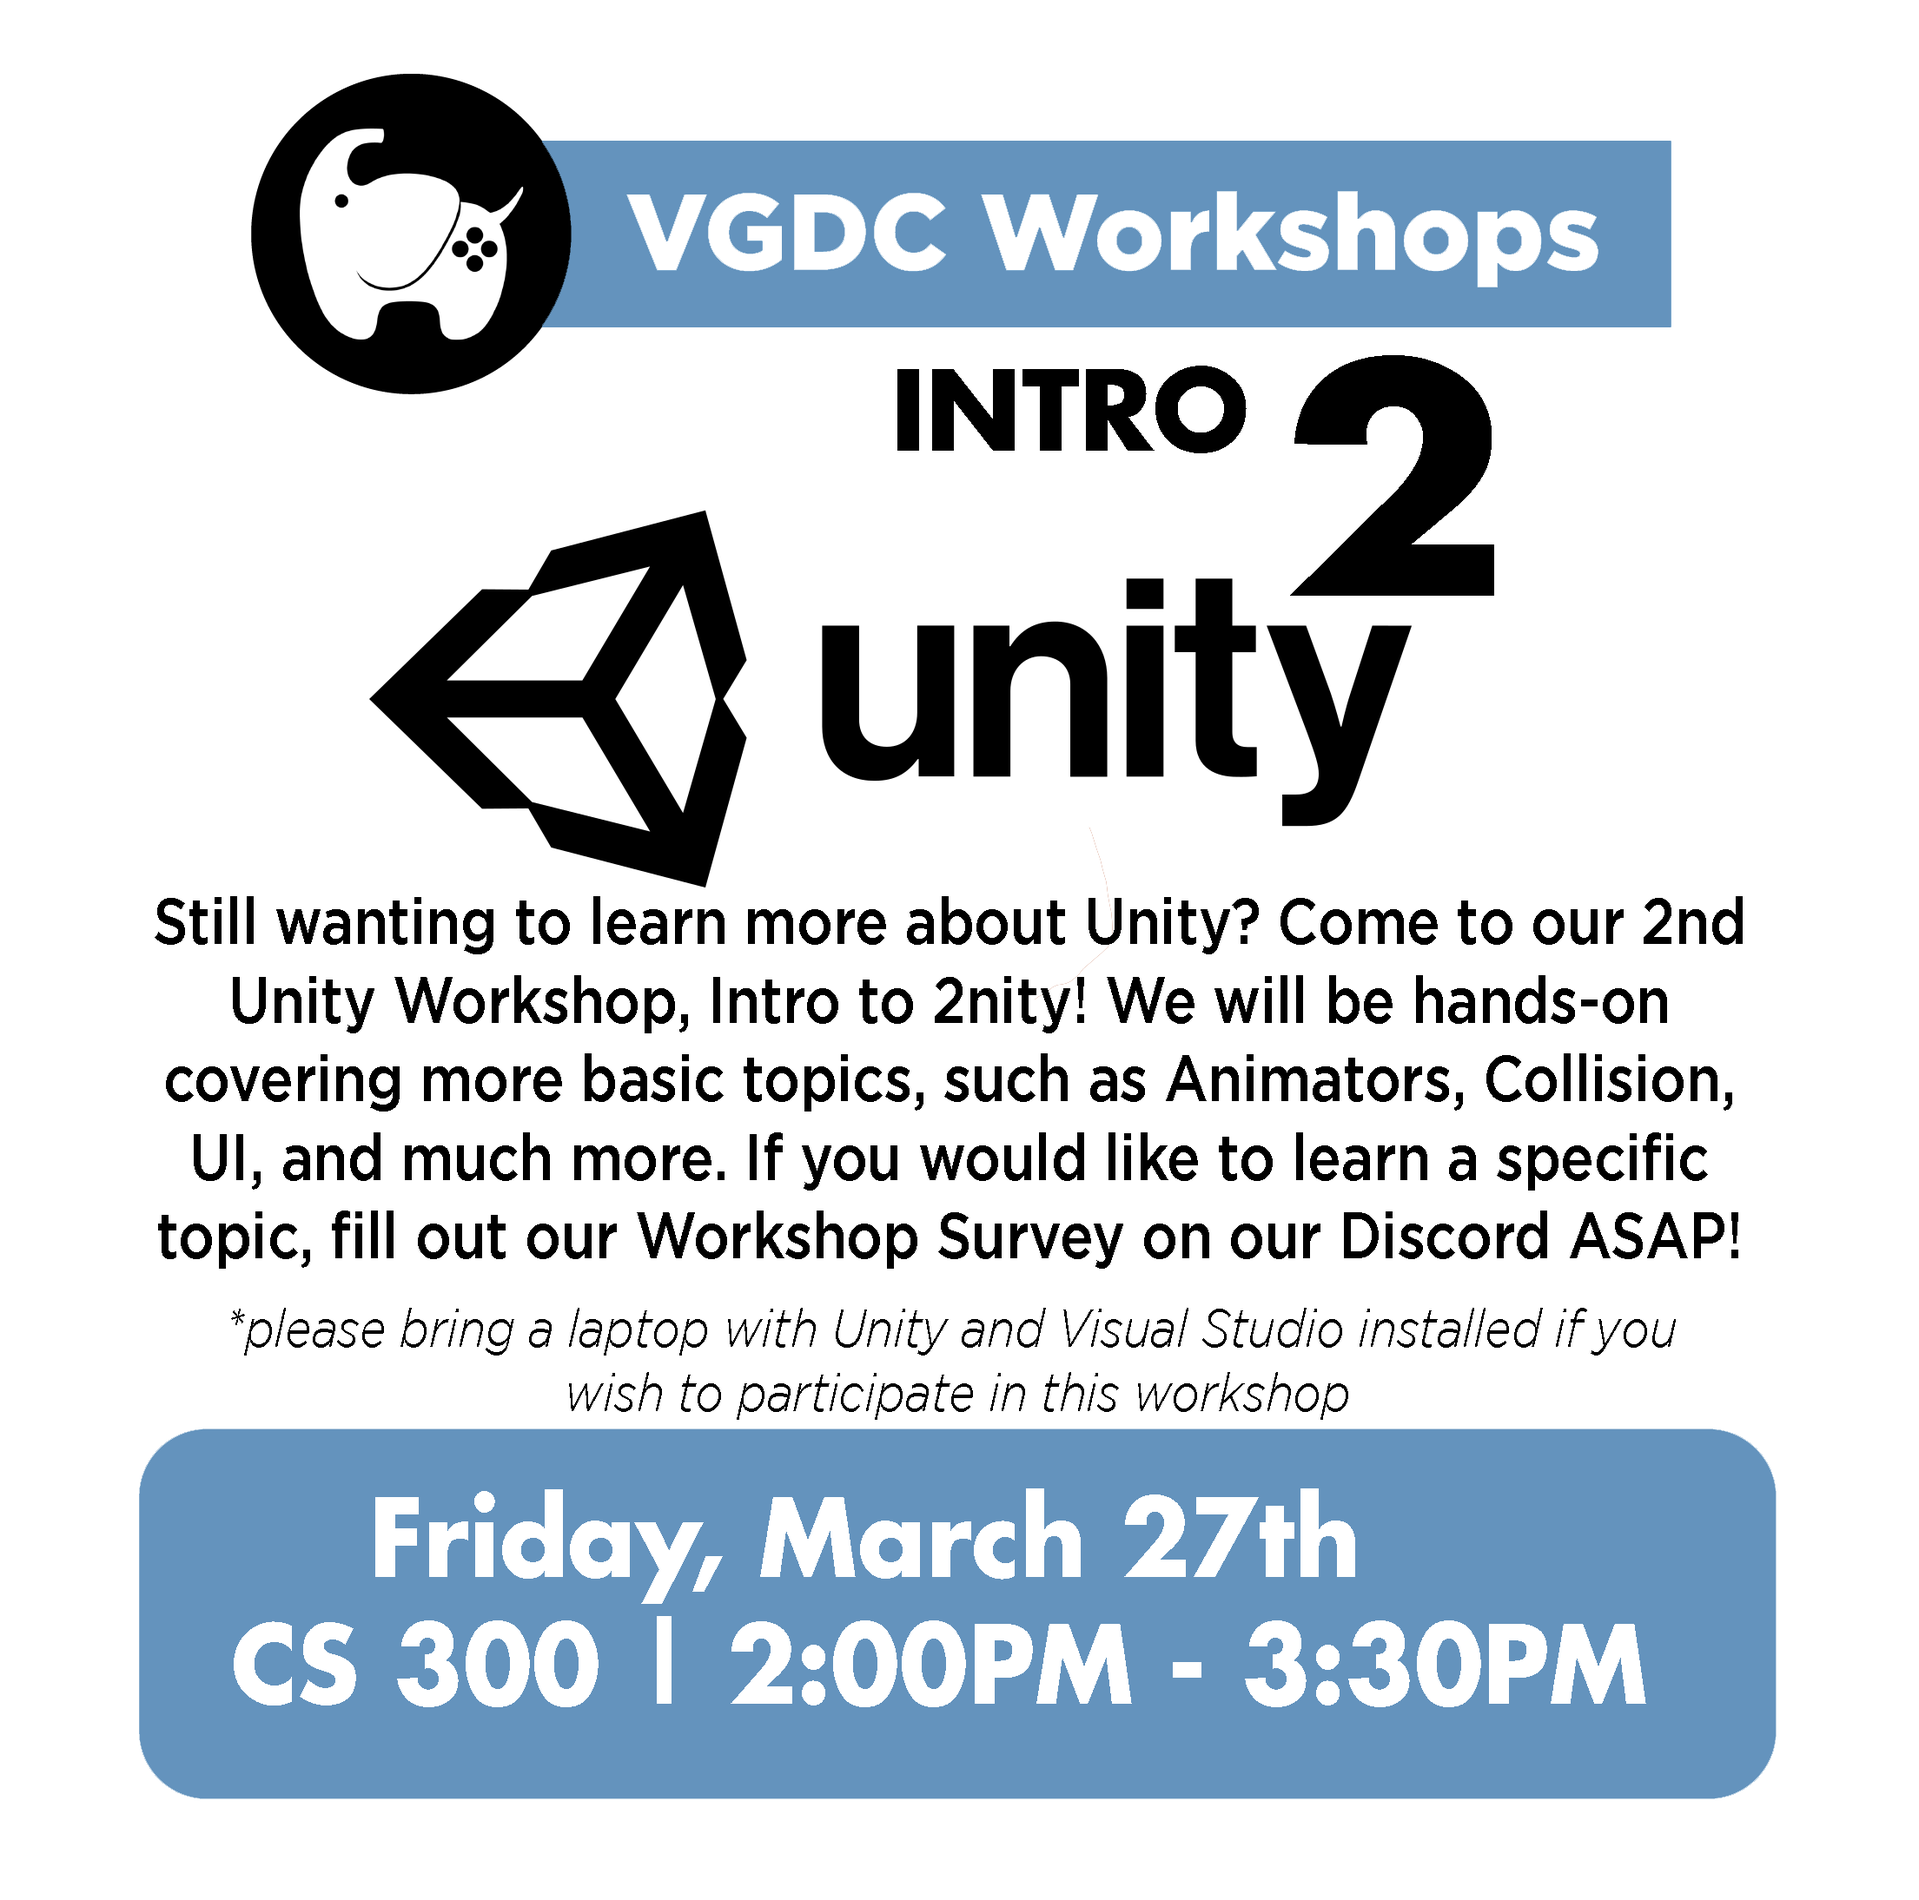
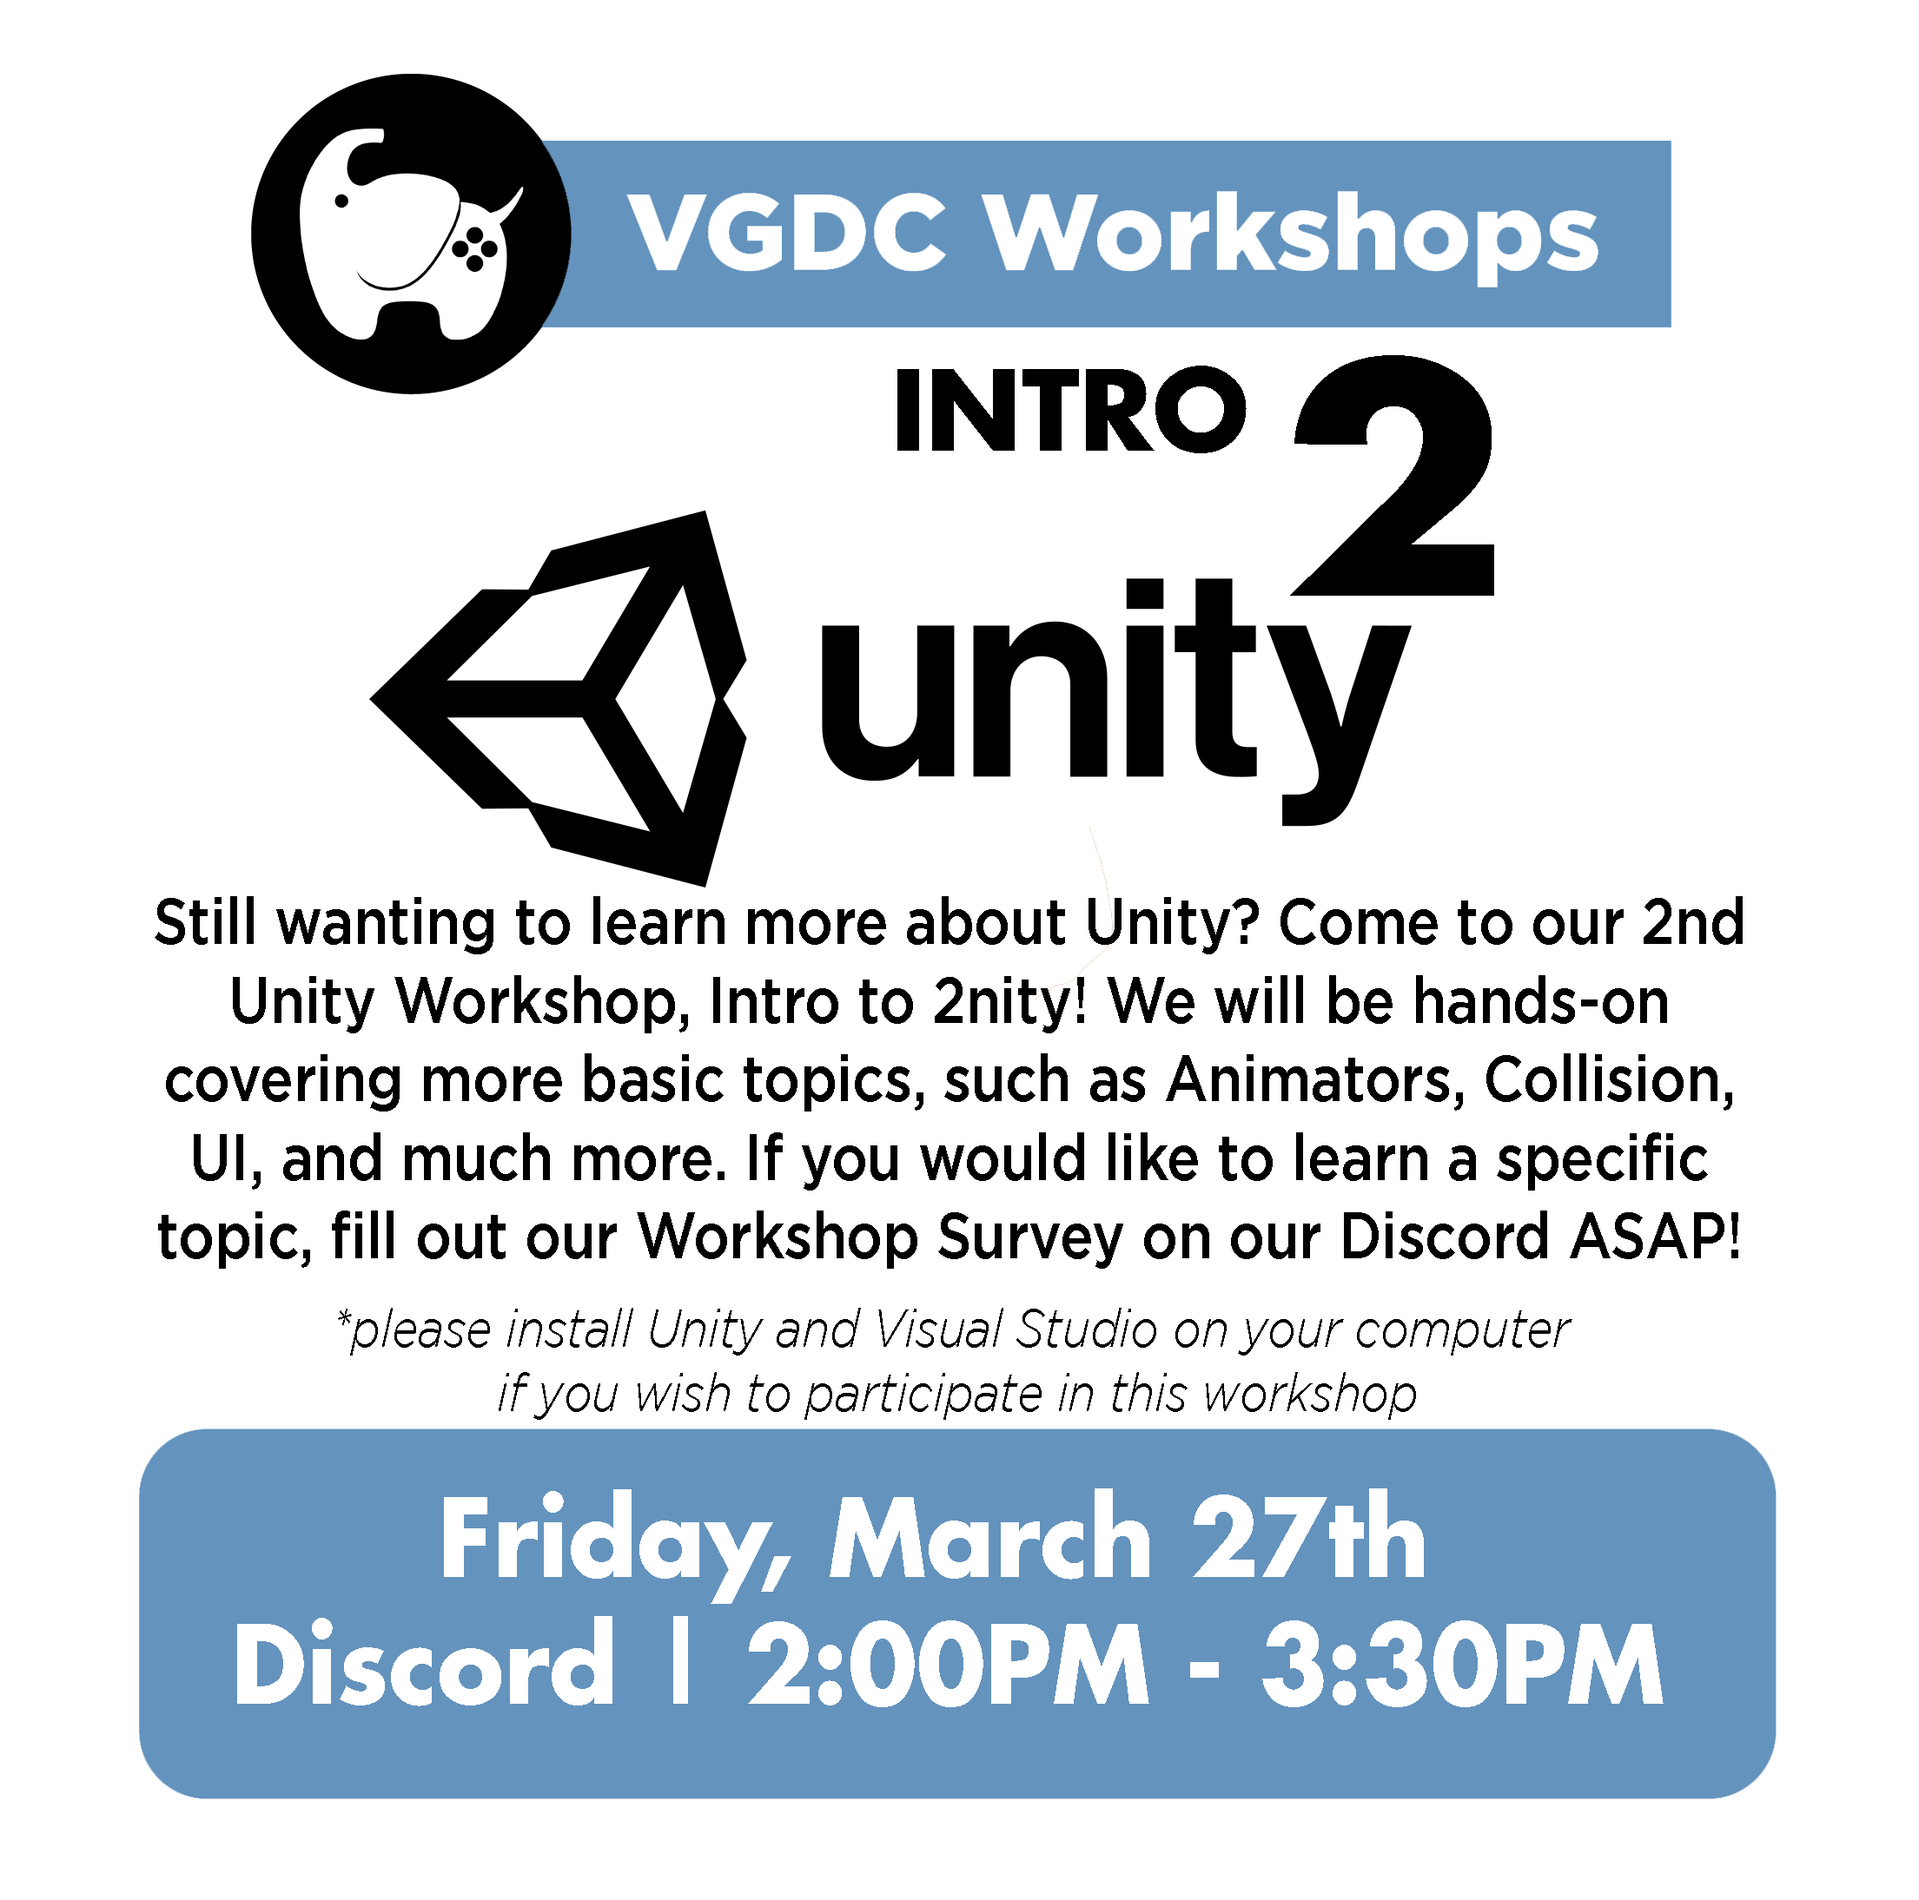
Added Virtual Meetings

Changed region(s): [[0.1249, 0.777, 0.8746, 0.9013], [0.1249, 0.6837, 0.8746, 0.7459]]

diff --git a/events.html b/events.html
@@ -82,40 +82,37 @@
 													<div class="container">
 														<img src="img/springGameLabs.png" class="image"> 
 														<div class="overlay" style="background-color: rgb(3, 28, 58)" >
-															<div class="textEventTitle">Spring 2020 Game Labs</div>
+															<div class="textEventTitle">Spring 2020 Virtual Game Labs</div>
 															<div class="textEvent">
 																<ul>
-																	<!-- <li>Every Friday from <br>12-4pm! CS 300</li> -->
-																	<li>This Friday 3/13 Game Lab is held virtually on Discord!</li>
-																	<li>Get recent updates in the Video Game Industry, <br>
-																	talk with your game project teams, and learn from our Workshops!</li>
+																	<li>Every Friday on Discord from 12-1:30pm!</li>
 																</ul>
 															</div>
 													</div>
 												</td>
-												<td class="eventCell" style="background-color: rgb(14,174,174)">
+												<td class="eventCell" style="background-color: rgb(175,54,54)">
 													<div class="container">
-														<img src="img/s20_wks4.png"  class="image">
-														<div class="overlay" style="background-color: rgb(14,174,174)" >
-														  <div class="textEventTitle">3D Modeling Workshop</div>
+														<img src="img/s20_wks7.png"  class="image">
+														<div class="overlay" style="background-color: rgb(175,54,54)" >
+														  <div class="textEventTitle">Sound and Music Workshop</div>
 														  <div class="textEvent">
 															  <ul>
-																<li>Friday March 20th, 2020 <br> 2-4pm CS 200</li>  
-																<li>Learn the basics of Autodesk Maya to create 3D props for 3D Games!</li>
+																<li>Friday April 17th, 2020 <br> 2-4pm Discord</li>  
+																<li>Learn the basics of Music Theory and Software such as Wwise and Fl Studio</li>
 															  </ul>
 														  </div>
 														</div>
 													</div>
 												</td>
-												<td class="eventCell" style="background-color: rgb(10, 121, 190)">
+												<td class="eventCell" style="background-color: rgb(95, 146, 227)">
 													<div class="container">
-														<img src="img/studentgamesfestival.png"  class="image">
-														<div class="overlay" style="background-color: rgb(10, 121, 190)" >
-														  <div class="textEventTitle">Student Games Festival</div>
+														<img src="img/gamesocial.png"  class="image">
+														<div class="overlay" style="background-color: rgb(95, 146, 227)" >
+														  <div class="textEventTitle">Gaming Social </div>
 														  <div class="textEvent">
 															  <ul>
-																<li>Sunday April 19th, 2020 <br> 9am-6pm CSUF TSU</li>  
-																<li>The ultimate event for Student Game Devs holding Guest Speaker Panels, Workshops, Student Showcases, and more!</li>
+																<li>Friday April 17th, 2020 <br> 4-9pm</li>  
+																<li>Game with your fellow club mates on Discord! Form groups to play your favorite games!</li>
 															  </ul>
 														  </div>
 														</div>
@@ -126,37 +123,31 @@
 										</tbody>
 									</table>
 									<i>More info on these events below!</i> <br>
+									<i>Due to campus closing, all Game Labs and events hosted by the club will be held virtually on our Discord Server unless stated otherwise .<br> Contact us for any questions!</i><br>
 									<div class="col-6 col-12-medium">
 										<h2>Game Labs</h2>
-										<h4>Weekly Game Labs for 2020 Spring Semester - </h4>
+										<h4>Weekly Virtual Game Labs for 2020 Spring Semester - </h4>
 										<ul>
-											<li>Every Friday from 12-4PM</li>
-											<li>Location: CS 300</li>
-											<li>We go over recent events related to the Game Development Industry,  give time for teams to work on their semester projects, <br>
-												and host weekly workshops covering all aspects in Game Development. Find schedules for those below!
+											<li>Every Friday from 12-1:30PM</li>
+											<li>Location: VGDC at CSUF Discord Server</li>
+											<li>We go over recent events related to the Game Development Industry,  showcase the hard work from the game project teams, <br>
+												and host weekly workshops covering all aspects in Game Development following showcases! Find schedules for those below!
 											</li>
-											<li><b>Note: Due to Coronavirus and health concerns,  VGDC will be cancelling this Friday's Game Lab Meeting and hold a VIRTUAL  <br>
-												meeting at 12PM this Friday (3/13) on Discord instead!</b></li>
-											<li>We will go over our usual announcements and showcase Slam Jam Games. Semester Project teams are expected to meet virtually <br>
-												 with their team in place of the usual physical meeting at Game Lab</li>
-											<li>To repeat, <b>do not go to CS 300 on 3/13 since meeting is purely on Discord. Contact us for any questions!</b></li>
 										</ul>
-										<h4 style="color: rgb(14,174,174);">3D Modeling Workshop - </h4>
+										<h4 style="color: rgb(175,54,54);">Sound and Music - </h4>
 										<ul>
-											<li>Date and Time: Pushed to Friday March 20th, 2020 2-4PM </li>
-											<li>Location: CSUF Campus CS 300</li>
-											<li>Learn the basics of using Autodesk Maya, an industry standrd 3D modeling nd rendering program to create <br>
-											3D props for 3D Games</li>
-											<li>The Workshop will also go over good practices when using Maya such as importing reference images, using layers, <br>
-											and learning other general tips so you can become a pro in Maya!</li>
-											<li>The workshop will have a hands-on portion teaching you how to model simple household objects. So please bring a <br>
-											a laptop with Autodesk Maya installed! (It is a hefty download, so do so ASAP!)</li>
+											<li>Date and Time: Pushed to Friday April 17th, 2020 2-4PM </li>
+											<li>Location: VGDC at CSUF Discord</li>
+											<li>Learn simple Music Theory to make your own music and songs!</li>
+											<li>Learn the basics of Wwise and FL Studio</li>
+											<li>If you would like to follow along, bring a laptop with Wwise, FL Studio, FL Studio compatible chiptune software, and Wwise cube demo</li>
+											<li>Links for resources listed above will be available through Discord! Contact us for any questions!</li>
 										</ul>
 										
 										<h2>Club Events</h2>										
-										<h4 style="color: rgb(10, 121, 190)">Student Games Festival - </h4>
+										<h4 style="color: rgb(95, 146, 227)">Gaming Social - </h4>
 										<ul>
-											<li>Date and Time:  Sunday, April 19th, 2020 9am-6pm</li>
+											<!-- <li>Date and Time:  Sunday, April 19th, 2020 9am-6pm</li>
 											<li>Location: CSUF Campus Titan Student Union</li>
 											<li>This will be the greatest crossover event for Game Dev Clubs featuring two of the largest student game development organizations in the US.</li>
 											<li>SGDA will have a Student Expo, showcasing student games from other student Game Dev Clubs across Southern California!</li>
@@ -164,7 +155,12 @@
 											<li>For students with a game project, this is the ultimate showcase for your hard work and a potentially great networking opportunity!<br>
 											We highly recommend you signing up to showcase your semester game project!</li>
 											<li>There will be free admission, free food, and free parking!</li>
-											<li>Stay tuned here or in any of our other social media platforms for more info!</li>
+											<li>Stay tuned here or in any of our other social media platforms for more info!</li> -->
+											<li>Date and Time: Friday, April 17th 2020 </li>
+											<li>Location:VGDC at CSUF Discord Server 4-9PM</li>
+											<li>Hang out with your fellow club members following the workshop! </li>
+											<li>Form a voice chat group in our Discord and play some of your favorite games!</li>
+											<li>Games played in the past include Skribblio, Smash Bros Ultimate, and Animal Crossing New Horizons!</li>
 										</ul>		
 									</div>
 									<i>More events coming soon! Stay up-to-date with our VGDC Calendar below!</i>
